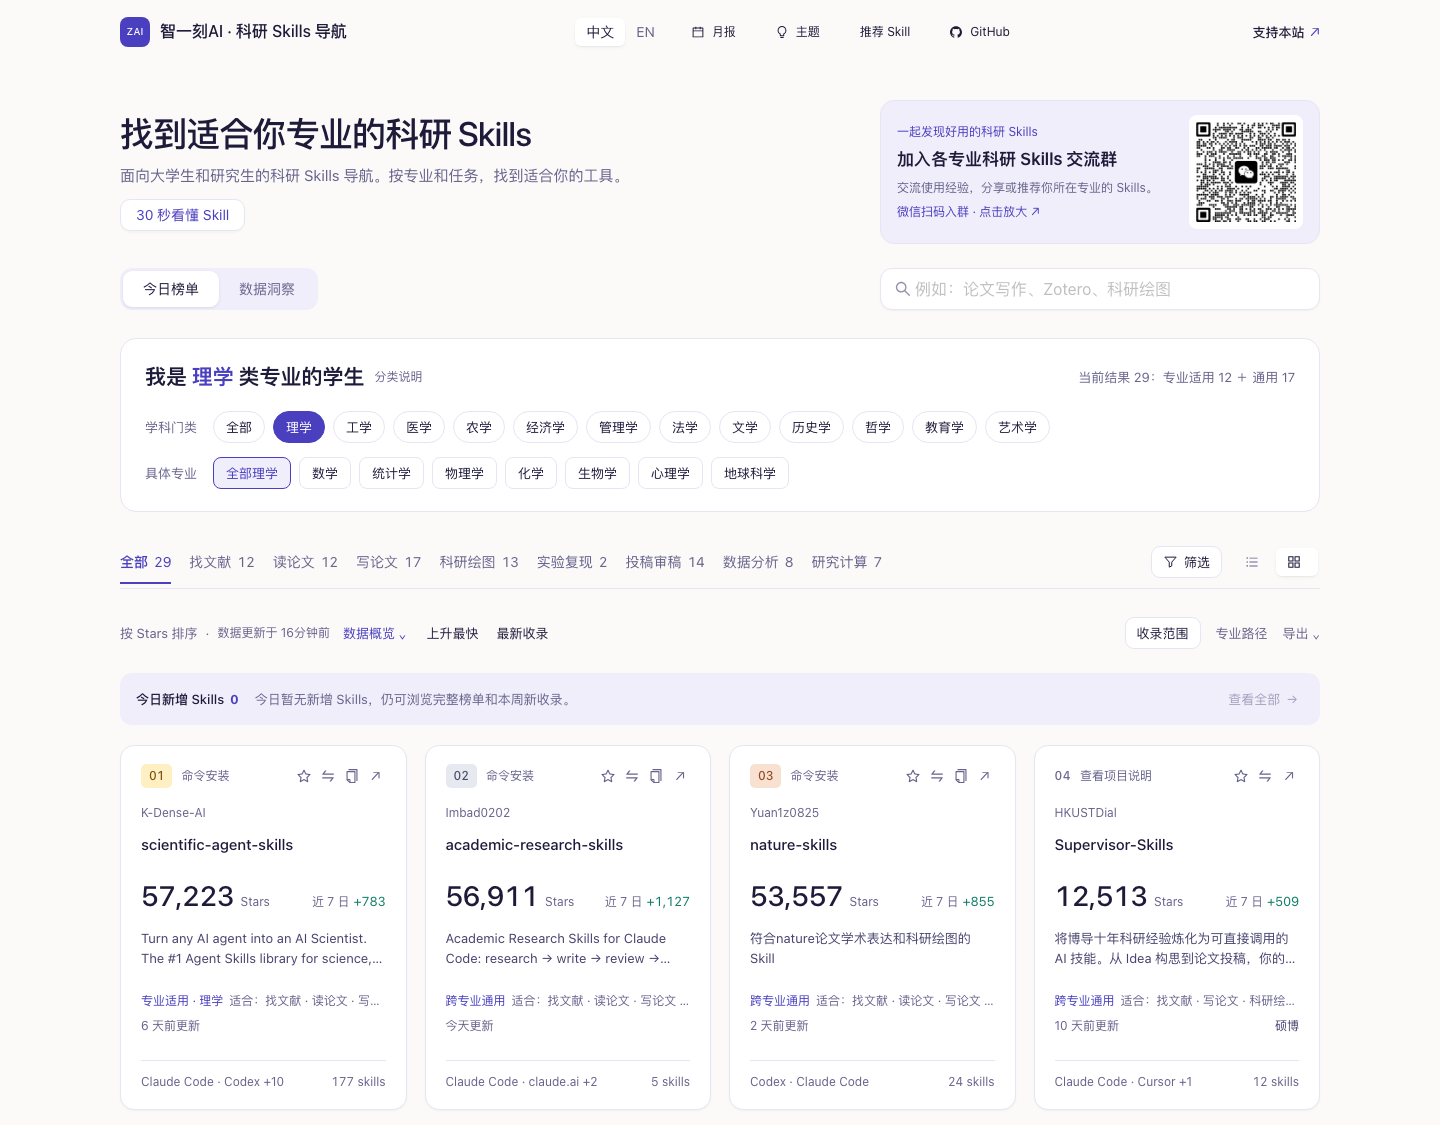
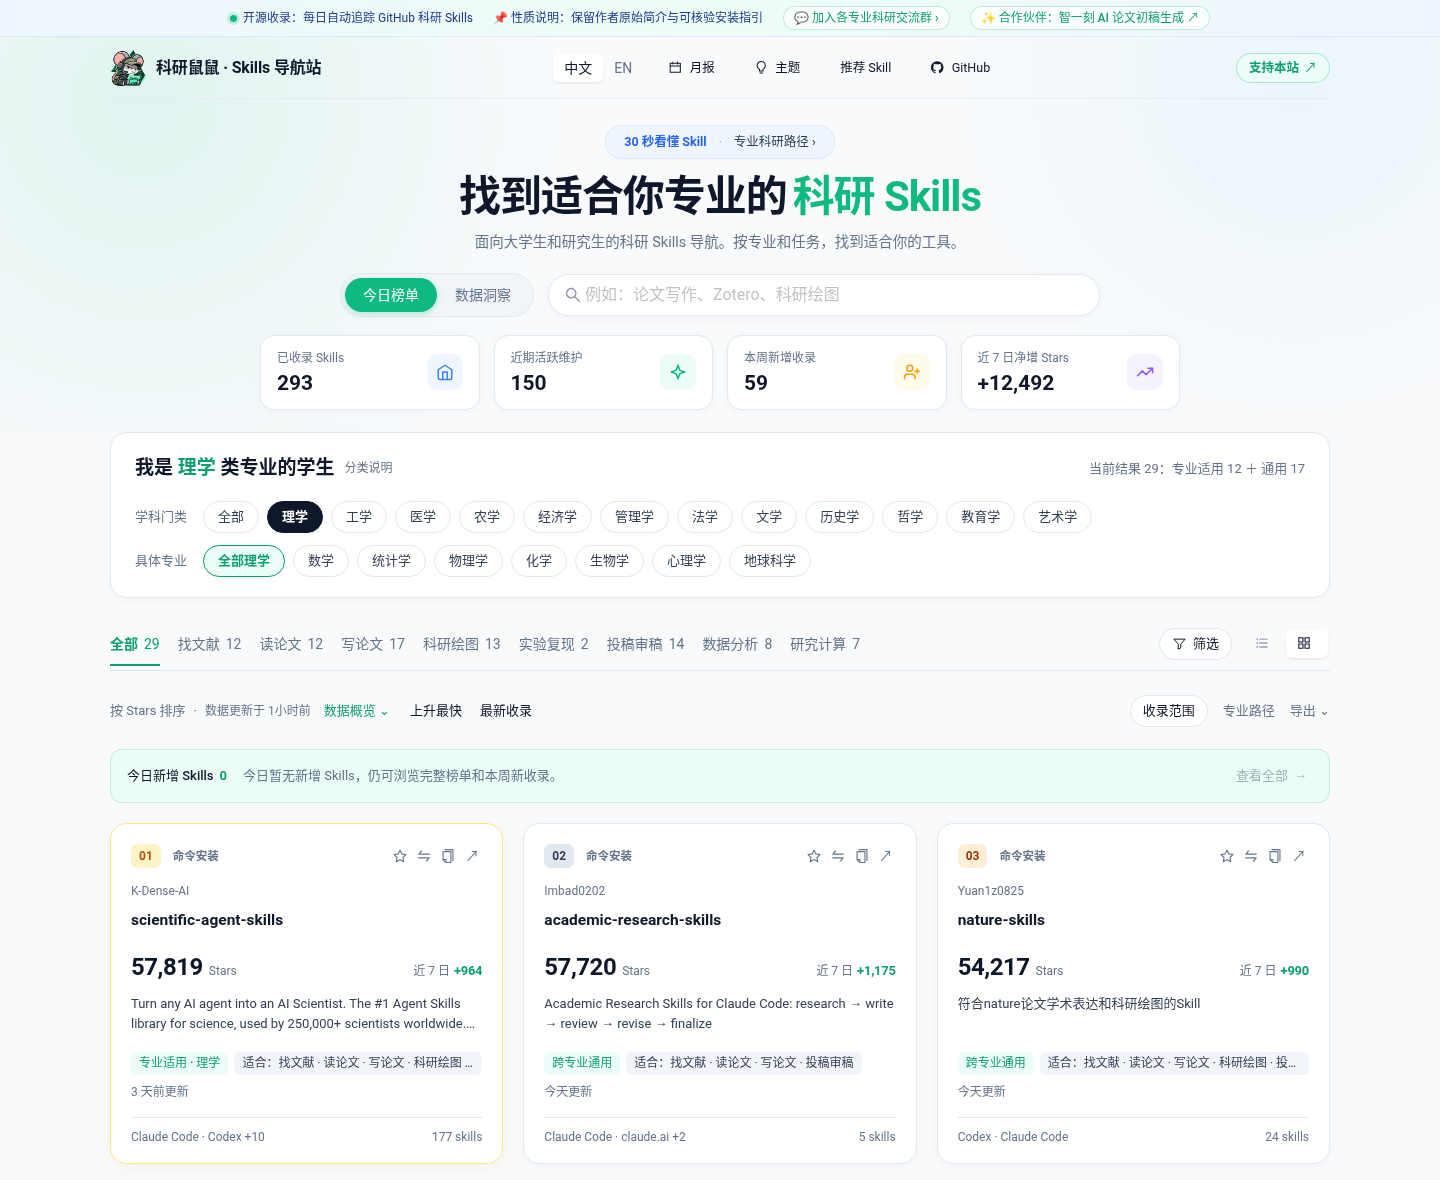
docs: update README brand, emerald badges, and dashboard screenshot

diff --git a/scripts/update_rankings.py b/scripts/update_rankings.py
@@ -1189,14 +1189,14 @@ def render_readme(data: dict[str, Any], window_snapshot: dict[str, Any] | None =
 
 **面向大学生和研究生，按专业找到适合自己的科研 Skills。**
 
-**Awesome Paper Research Skills** 由 RiceAI88 整理维护，汇集 GitHub 上用于文献检索、论文阅读、写作、绘图、数据分析和科研计算的 Agent Skills。支持按专业、科研任务和适用平台筛选，并提供安装入口、使用条件与维护信息。科研相关工具、工作流与资料单独标注。
+**科研鼠鼠 · Skills 导航站**（`shushu-research-skills`）由 RiceAI88 整理维护，汇集 GitHub 上用于文献检索、论文阅读、写作、绘图、数据分析和科研计算的 Agent Skills。支持按专业、科研任务和适用平台筛选，并提供安装入口、使用条件与维护信息。科研相关工具、工作流与资料单独标注。
 
 ### [打开科研 Skills 导航 →]({SITE_URL}/)
 
-[![Skills](https://img.shields.io/badge/Skills-{len(skills)}-4f3bd8)](#skills-榜单)
-[![Updated](https://img.shields.io/badge/updated-{date_badge}-706b91)](#收录与更新)
+[![Skills](https://img.shields.io/badge/Skills-{len(skills)}-0d9f6e)](#skills-榜单)
+[![Updated](https://img.shields.io/badge/updated-{date_badge}-64748b)](#收录与更新)
 [![CI](https://github.com/RiceAI88/shushu-research-skills/actions/workflows/ci.yml/badge.svg)](https://github.com/RiceAI88/shushu-research-skills/actions/workflows/ci.yml)
-[![License: MIT](https://img.shields.io/badge/license-MIT-706b91)](LICENSE)
+[![License: MIT](https://img.shields.io/badge/license-MIT-64748b)](LICENSE)
 
 [按专业找](#按专业找-skills) · [按任务找](#按科研任务找-skills) · [新手入门](#网站怎么用) · [今日新增](#今日新增-skills) · [Skills 榜单](#skills-榜单) · [科研相关项目](#科研相关项目) · [收录与更新](#收录与更新) · [推荐项目](CONTRIBUTING.md) · [English](#english)
 
@@ -1289,7 +1289,7 @@ README 会由采集脚本自动生成，静态介绍需修改 [`render_readme`](
 
 ## English
 
-**Research Hamster · Skills Directory** (Awesome Paper Research Skills) helps undergraduate and postgraduate students find GitHub research Skills by discipline, task and supported platform, from literature search and writing to figures, data analysis and scientific computing.
+**Research Hamster · Skills Directory** (`shushu-research-skills`) helps undergraduate and postgraduate students find GitHub research Skills by discipline, task and supported platform, from literature search and writing to figures, data analysis and scientific computing.
 
 [Open the dashboard]({SITE_URL}/en/) to choose a discipline and task, read the starter guide, explore discipline research paths, inspect installation requirements, save favorites, compare repositories and explore data insights. Descriptions stay in the repository author's original language.
 

diff --git a/tests/test_readme.py b/tests/test_readme.py
@@ -79,7 +79,7 @@ class ReadmeTest(unittest.TestCase):
     def test_current_brand_disciplines_and_starter_guidance_are_generated(self):
         text = render_readme(dataset([entry("alpha", "skill")]))
         self.assertTrue(text.startswith("# 科研鼠鼠 · Skills 导航站\n"))
-        self.assertIn("Awesome Paper Research Skills", text)
+        self.assertIn("shushu-research-skills", text)
         self.assertIn("面向大学生和研究生", text)
         self.assertIn("## 按专业找 Skills", text)
         catalog=json.loads((Path(__file__).resolve().parents[1]/"config/disciplines.json").read_text())

diff --git a/README.md b/README.md
@@ -2,14 +2,14 @@
 
 **面向大学生和研究生，按专业找到适合自己的科研 Skills。**
 
-**Awesome Paper Research Skills** 由 RiceAI88 整理维护，汇集 GitHub 上用于文献检索、论文阅读、写作、绘图、数据分析和科研计算的 Agent Skills。支持按专业、科研任务和适用平台筛选，并提供安装入口、使用条件与维护信息。科研相关工具、工作流与资料单独标注。
+**科研鼠鼠 · Skills 导航站**（`shushu-research-skills`）由 RiceAI88 整理维护，汇集 GitHub 上用于文献检索、论文阅读、写作、绘图、数据分析和科研计算的 Agent Skills。支持按专业、科研任务和适用平台筛选，并提供安装入口、使用条件与维护信息。科研相关工具、工作流与资料单独标注。
 
 ### [打开科研 Skills 导航 →](https://riceai985.cc/)
 
-[![Skills](https://img.shields.io/badge/Skills-293-4f3bd8)](#skills-榜单)
-[![Updated](https://img.shields.io/badge/updated-2026--11--19-706b91)](#收录与更新)
+[![Skills](https://img.shields.io/badge/Skills-293-0d9f6e)](#skills-榜单)
+[![Updated](https://img.shields.io/badge/updated-2026--11--19-64748b)](#收录与更新)
 [![CI](https://github.com/RiceAI88/shushu-research-skills/actions/workflows/ci.yml/badge.svg)](https://github.com/RiceAI88/shushu-research-skills/actions/workflows/ci.yml)
-[![License: MIT](https://img.shields.io/badge/license-MIT-706b91)](LICENSE)
+[![License: MIT](https://img.shields.io/badge/license-MIT-64748b)](LICENSE)
 
 [按专业找](#按专业找-skills) · [按任务找](#按科研任务找-skills) · [新手入门](#网站怎么用) · [今日新增](#今日新增-skills) · [Skills 榜单](#skills-榜单) · [科研相关项目](#科研相关项目) · [收录与更新](#收录与更新) · [推荐项目](CONTRIBUTING.md) · [English](#english)
 
@@ -138,7 +138,7 @@ README 会由采集脚本自动生成，静态介绍需修改 [`render_readme`](
 
 ## English
 
-**Research Hamster · Skills Directory** (Awesome Paper Research Skills) helps undergraduate and postgraduate students find GitHub research Skills by discipline, task and supported platform, from literature search and writing to figures, data analysis and scientific computing.
+**Research Hamster · Skills Directory** (`shushu-research-skills`) helps undergraduate and postgraduate students find GitHub research Skills by discipline, task and supported platform, from literature search and writing to figures, data analysis and scientific computing.
 
 [Open the dashboard](https://riceai985.cc/en/) to choose a discipline and task, read the starter guide, explore discipline research paths, inspect installation requirements, save favorites, compare repositories and explore data insights. Descriptions stay in the repository author's original language.
 
